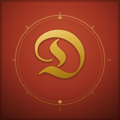
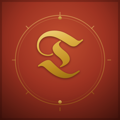
Rename the app to Triptych
The name it should have had. Three panels, and a reader that is three things:
a shelf, a page, and a way of getting books onto the first from the world.

Carries through everything user facing, the storage keys, the cache prefix and
the icon, whose blackletter D becomes a T. Nothing is deployed yet, so renaming
the IndexedDB database and the localStorage keys costs nothing; doing it later
would have stranded a real library.

Changed region(s): [[0.275, 0.225, 0.725, 0.65]]

diff --git a/js/app.js b/js/app.js
@@ -265,8 +265,8 @@ async function importFiles(files, opts = {}) {
 /* A shelf should never be empty on the first morning. The titles are listed in
    seed/seeds.json, which `node tools/seeds.mjs <url>...` rewrites for you. */
 async function seedFirstRun() {
-  if (localStorage.getItem('delights.seeded') === '1') return;
-  if ((await db.listBooks()).length) { localStorage.setItem('delights.seeded', '1'); return; }
+  if (localStorage.getItem('triptych.seeded') === '1') return;
+  if ((await db.listBooks()).length) { localStorage.setItem('triptych.seeded', '1'); return; }
 
   let names = [];
   try {
@@ -285,15 +285,15 @@ async function seedFirstRun() {
   if (!files.length) return;
 
   const n = await importFiles(files, { quiet: true });
-  localStorage.setItem('delights.seeded', '1');
+  localStorage.setItem('triptych.seeded', '1');
   return n;
 }
 
 /* ══════════════ The frontispiece ══════════════ */
 function showDedication() {
-  if (localStorage.getItem('delights.dedicated') === '1') return Promise.resolve();
+  if (localStorage.getItem('triptych.dedicated') === '1') return Promise.resolve();
   const d = DEDICATION;
-  if (!d?.lines?.length) { localStorage.setItem('delights.dedicated', '1'); return Promise.resolve(); }
+  if (!d?.lines?.length) { localStorage.setItem('triptych.dedicated', '1'); return Promise.resolve(); }
 
   $('#dedHeading').textContent = d.heading || '';
   $('#dedBody').innerHTML = d.lines.map((l) => `<p>${escapeHtml(l)}</p>`).join('');
@@ -308,7 +308,7 @@ function showDedication() {
 
   return new Promise((resolve) => {
     enter.addEventListener('click', () => {
-      localStorage.setItem('delights.dedicated', '1');
+      localStorage.setItem('triptych.dedicated', '1');
       card.style.transition = 'opacity 520ms var(--ease)';
       card.style.opacity = '0';
       setTimeout(() => { card.hidden = true; card.style.cssText = ''; resolve(); }, 520);
@@ -645,7 +645,7 @@ async function buildWorkshop() {
     ${standalone ? '' : `
     <p class="group-title">Living on the home screen</p>
     <div class="row">
-      <span class="row-label"><b>Delights is running in the browser</b><small>Add it to your home screen and it opens like a real app, with no address bar.</small></span>
+      <span class="row-label"><b>Triptych is running in the browser</b><small>Add it to your home screen and it opens like a real app, with no address bar.</small></span>
       <button class="btn btn-ghost" id="showCoach">Show me</button>
     </div>`}
 
@@ -693,14 +693,14 @@ async function makeBackup() {
       if (s) manifest.state.push(s);
       manifest.marks.push(...(await db.listMarks(b.id)));
     }
-    zip.file('delights.json', JSON.stringify(manifest));
+    zip.file('triptych.json', JSON.stringify(manifest));
 
     const blob = await zip.generateAsync({ type: 'blob', compression: 'STORE' });
     const stamp = new Date().toISOString().slice(0, 10);
-    const file = new File([blob], `delights-backup-${stamp}.zip`, { type: 'application/zip' });
+    const file = new File([blob], `triptych-backup-${stamp}.zip`, { type: 'application/zip' });
 
     if (navigator.canShare?.({ files: [file] })) {
-      await navigator.share({ files: [file], title: 'Delights backup' });
+      await navigator.share({ files: [file], title: 'Triptych backup' });
       toast('Saved.');
     } else {
       const url = URL.createObjectURL(blob);
@@ -720,8 +720,8 @@ async function restoreBackup(file) {
   toast('Unpacking the backup…', 14000);
   try {
     const zip = await window.JSZip.loadAsync(file);
-    const mf = zip.file('delights.json');
-    if (!mf) { toast('That zip is not a Delights backup.'); return; }
+    const mf = zip.file('triptych.json');
+    if (!mf) { toast('That zip is not a Triptych backup.'); return; }
     const manifest = JSON.parse(await mf.async('string'));
 
     const existing = await db.listBooks();
@@ -766,7 +766,7 @@ const isIOS = () => /iPad|iPhone|iPod/.test(navigator.userAgent) ||
 function maybeCoach() {
   if (isStandalone()) return;
   if (!isIOS()) return;
-  if (localStorage.getItem('delights.coached') === '1') return;
+  if (localStorage.getItem('triptych.coached') === '1') return;
   // Only ever in front of the shelf. It must never land on top of a book.
   setTimeout(() => {
     if (state.view === 'library' && $('#scrim').hidden) $('#installCoach').hidden = false;
@@ -901,7 +901,7 @@ function wire() {
   // Install coach
   $('#dismissCoach').addEventListener('click', () => {
     $('#installCoach').hidden = true;
-    localStorage.setItem('delights.coached', '1');
+    localStorage.setItem('triptych.coached', '1');
   });
 
   // Leaving edit mode
@@ -948,9 +948,9 @@ async function boot() {
   await db.requestPersistence().catch(() => {});
 
   // The books arrive behind the card, so the shelf is ready when she taps through.
-  const firstRun = localStorage.getItem('delights.seeded') !== '1';
+  const firstRun = localStorage.getItem('triptych.seeded') !== '1';
   const seeding = seedFirstRun();
-  const dedicated = localStorage.getItem('delights.dedicated') === '1';
+  const dedicated = localStorage.getItem('triptych.dedicated') === '1';
   await showDedication();
   const seeded = await seeding;
   if (firstRun && seeded && dedicated) {

diff --git a/index.html b/index.html
@@ -3,7 +3,7 @@
 <head>
 <meta charset="utf-8">
 <meta name="viewport" content="width=device-width, initial-scale=1, viewport-fit=cover, interactive-widget=resizes-content">
-<title>Delights</title>
+<title>Triptych</title>
 <meta name="description" content="A private library that reads like a Bosch painting.">
 <meta name="color-scheme" content="light dark">
 <meta name="theme-color" content="#e5d7b8" media="(prefers-color-scheme: light)">
@@ -12,7 +12,7 @@
 <meta name="apple-mobile-web-app-capable" content="yes">
 <meta name="mobile-web-app-capable" content="yes">
 <meta name="apple-mobile-web-app-status-bar-style" content="black-translucent">
-<meta name="apple-mobile-web-app-title" content="Delights">
+<meta name="apple-mobile-web-app-title" content="Triptych">
 <meta name="format-detection" content="telephone=no">
 
 <link rel="manifest" href="manifest.webmanifest">
@@ -116,7 +116,7 @@
 <!-- ═══ The rail. Wide screens only. ═══ -->
 <nav class="rail" id="rail" aria-label="Sections">
   <div class="rail-head">
-    <h1 class="rail-mark">Delights</h1>
+    <h1 class="rail-mark">Triptych</h1>
     <p class="rail-sub" id="railCount"></p>
   </div>
   <ul class="rail-nav">
@@ -136,7 +136,7 @@
 <section class="view" id="viewLibrary" data-view="library">
   <header class="topbar topbar-library">
     <div class="topbar-row">
-      <h1 class="wordmark">Delights</h1>
+      <h1 class="wordmark">Triptych</h1>
       <div class="topbar-actions">
         <button class="glyph" id="btnPrefs" aria-label="Settings">
           <span class="beak-btn" data-beast="prince" aria-hidden="true"></span>
@@ -341,11 +341,11 @@
   <div class="install-card">
     <div class="install-art" data-beast="egg" aria-hidden="true"></div>
     <h2>Put me on your home screen</h2>
-    <p>Delights wants to live on your home screen so it opens like any other app, with no address bar and no internet needed.</p>
+    <p>Triptych wants to live on your home screen so it opens like any other app, with no address bar and no internet needed.</p>
     <ol class="install-steps">
       <li><span class="num">1</span> Tap the Share button <svg class="ico ico-inline" aria-hidden="true"><use href="#i-share-ios"/></svg> at the bottom of Safari.</li>
       <li><span class="num">2</span> Scroll down and tap <b>Add to Home Screen</b>.</li>
-      <li><span class="num">3</span> Tap <b>Add</b>. Then open Delights from your home screen.</li>
+      <li><span class="num">3</span> Tap <b>Add</b>. Then open Triptych from your home screen.</li>
     </ol>
     <button class="btn btn-ghost" id="dismissCoach">I will do it later</button>
   </div>

diff --git a/js/summon.js b/js/summon.js
@@ -38,7 +38,7 @@ const SOURCES = {
       'Tap any link that says <b>Slow Partner Server</b>. Those are the free ones. There are usually three or four.',
       'A countdown appears, sometimes up to a minute. That is normal. Leave it alone and let it finish, then tap the download link it gives you.',
       'Safari asks what to do. Tap <b>Download</b>.',
-      'Come straight back here. Delights will be waiting with the file picker open.',
+      'Come straight back here. Triptych will be waiting with the file picker open.',
     ],
     mirrorsNote: 'Anna’s Archive moves address now and then. If the page will not load, try one of these instead.',
   },
@@ -79,13 +79,13 @@ const SOURCES = {
     lede: 'Use this to find the exact title, author and year, then hunt for that.',
     steps: [
       'Tap the book to see every edition and its year.',
-      'If the button says <b>Borrow</b>, that copy is locked and cannot come to Delights. Note the exact title and author instead.',
+      'If the button says <b>Borrow</b>, that copy is locked and cannot come to Triptych. Note the exact title and author instead.',
       'If it offers a plain <b>EPUB</b>, take it and come back.',
     ],
   },
 };
 
-const LAST_KEY = 'delights.lastHunt';
+const LAST_KEY = 'triptych.lastHunt';
 
 export class Summon {
   constructor(root, ctx) {

diff --git a/sw.js b/sw.js
@@ -1,13 +1,13 @@
 /*
  * sw.js  ·  generated by build.mjs, do not edit by hand
  *
- * Cache first, always. Once installed, Delights opens with no network at all
+ * Cache first, always. Once installed, Triptych opens with no network at all
  * and never has to be refreshed. A new version only lands when this file's
  * VERSION changes, and it takes over the next time the app is launched.
  */
 
-const VERSION = '55d01c2023a1';
-const CACHE = 'delights-' + VERSION;
+const VERSION = '043fb7bd9321';
+const CACHE = 'triptych-' + VERSION;
 
 const PRECACHE = [
   './',

diff --git a/js/bestiary.js b/js/bestiary.js
@@ -2,7 +2,7 @@
  * bestiary.js
  *
  * The creatures are not drawn. They are lifted straight out of Hieronymus
- * Bosch, The Garden of Earthly Delights (c. 1490 to 1510), which is public
+ * Bosch, The Garden of Earthly Triptych (c. 1490 to 1510), which is public
  * domain. art/cut.py does the lifting and writes assets/beasts/.
  *
  * Most arrive as feathered roundels, the way a manuscript would set a figure.

diff --git a/art/icon.html b/art/icon.html
@@ -56,6 +56,6 @@
   <!-- The letter -->
   <text x="512" y="512" text-anchor="middle" dominant-baseline="central"
         font-family="UnifrakturMaguntia" font-size="566"
-        fill="url(#gold)" filter="url(#lift)">D</text>
+        fill="url(#gold)" filter="url(#lift)">T</text>
 </svg>
 </body></html>

diff --git a/js/reader.js b/js/reader.js
@@ -7,7 +7,7 @@
 import { prefs, FONTS } from './prefs.js';
 import * as db from './db.js';
 
-const STYLE_ID = '__delights_style';
+const STYLE_ID = '__triptych_style';
 const CAP_CLASS = 'dl-first';
 
 let fontFaceCss = '';

diff --git a/js/prefs.js b/js/prefs.js
@@ -3,7 +3,7 @@
  * Small reactive settings store backed by localStorage.
  */
 
-const KEY = 'delights.prefs.v1';
+const KEY = 'triptych.prefs.v1';
 
 export const DEFAULTS = {
   theme: 'garden',

diff --git a/js/db.js b/js/db.js
@@ -5,7 +5,7 @@
  * never has to drag megabytes into memory.
  */
 
-const NAME = 'delights';
+const NAME = 'triptych';
 const VERSION = 1;
 
 let dbp = null;

diff --git a/README.md b/README.md
@@ -1,4 +1,4 @@
-# Delights
+# Triptych
 
 A private ebook library that reads like a Hieronymus Bosch panel.
 
@@ -86,7 +86,7 @@ Any static host works. Two rules matter:
    app to a different domain leaves the library behind on the old one.
 
 Everything is referenced with relative paths, so it runs from a subpath such as
-`user.github.io/delights/` as happily as from a domain root.
+`user.github.io/triptych/` as happily as from a domain root.
 
 ## Installing on iPhone or iPad
 

diff --git a/CLAUDE.md b/CLAUDE.md
@@ -1,4 +1,4 @@
-# Delights
+# Triptych
 
 Birthday gift for Abby's mother, 2026-09-01. An installable PWA ebook reader
 styled after Hieronymus Bosch, with a guided flow for acquiring EPUBs.
